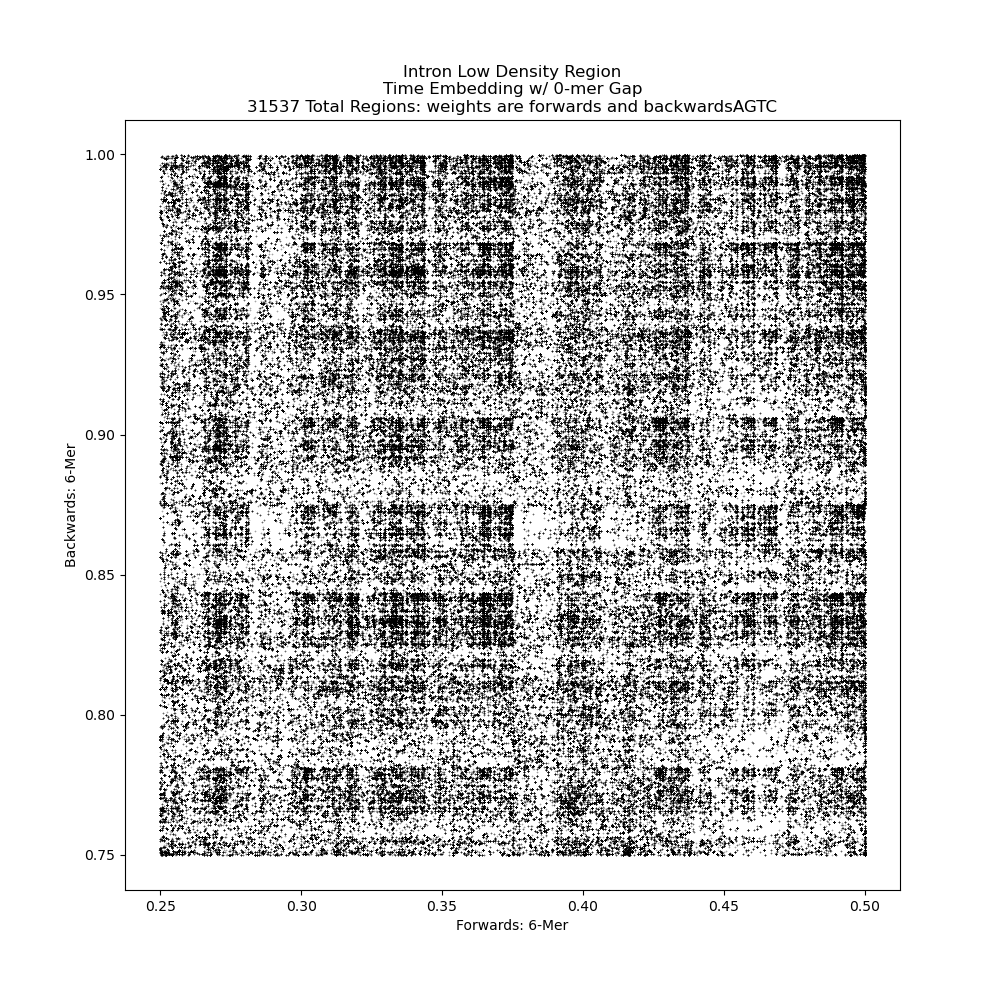
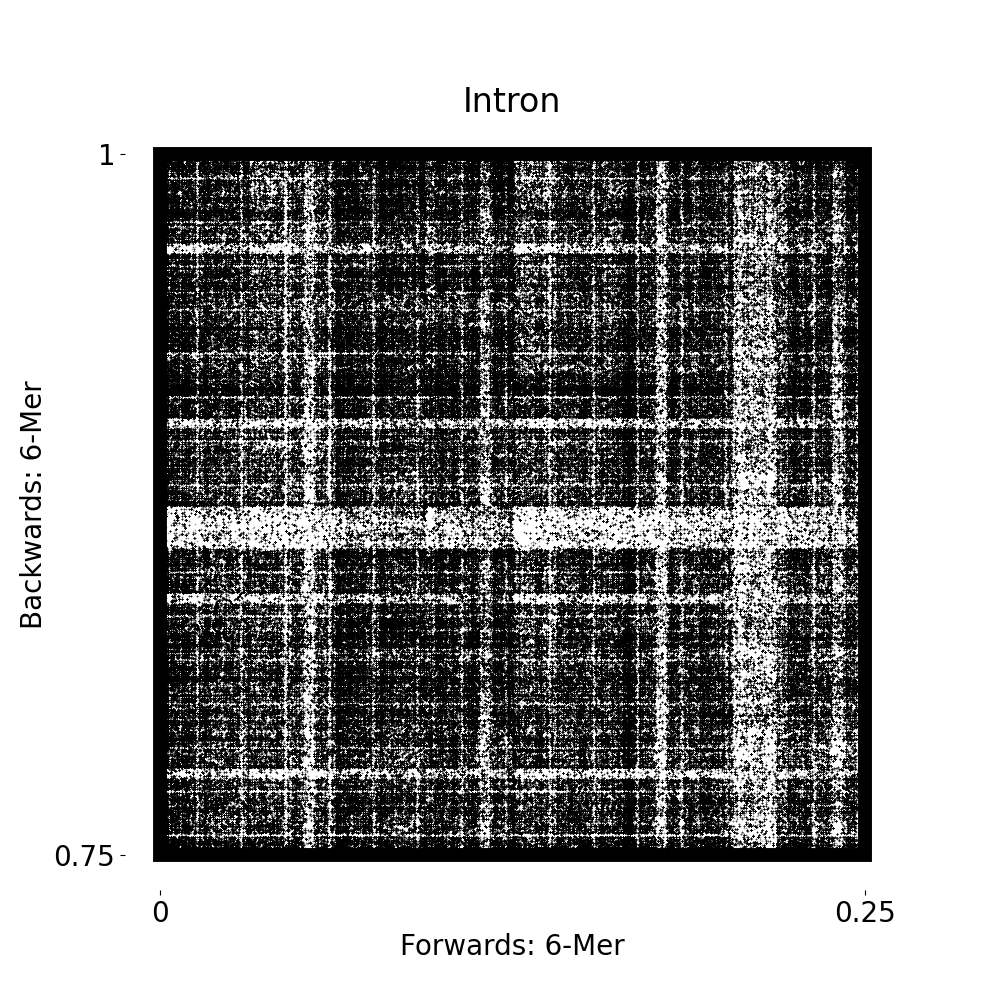
Finished with density plots hopefully

diff --git a/FractalDimension/TimeEmbedding.py b/FractalDimension/TimeEmbedding.py
@@ -18,6 +18,20 @@ import random
 
 def main():
     '''
+    Zoom in on CGA|CTA
+
+    x = CTA
+    y = AGC
+    box1 = A|G
+    box2 = GA|CT
+    box3 = CGA|CTA
+
+    0.25 -> 1/4
+    0.0625 -> 1/8
+    0.015625 -> 1/16
+    0.00390625 -> 1/32
+    0.0009765625 -> 1/64
+
     So traditionally I did the backwards on the x axis and forwards on the y axis, and that's getting me into trouble. The Kneeding transform is best done with it flipped. So I introduced a simple
     transform bool, but... that's getting confusing. The point is: be careful how you use this.
 
@@ -40,7 +54,7 @@ def main():
     # exit()
 
     linux_path = f"/media/ethanspeakman/Elements/"
-    windows_path = f"G:/"
+    windows_path = f"F:/"
 
     data_path = windows_path
 
@@ -49,37 +63,43 @@ def main():
     intron_dict_file = "IntronData_n100000_DS1_kp6_km6"
     x_lim = None
     y_lim = None
-    x_ticks = None
-    y_ticks = None
+    x_ticks = {0.0: 0.0, 1.0: 1.0}
+    y_ticks = {0.0: 0.0, 1.0: 1.0}
     s = 0.01
     bfa = None
     inches = 20
-    exon_png_file = "Exon_textsize_20"
-    intron_png_file = "Intron_textsize_20"
-    # box_1 = [0.25, 0.25, 0.25, 0.25, "red", 4, True, 0.4]
-    # bfa = [box_1]
-    bfa = None
+    exon_png_file = "Exon_box1_x075_100_y000_025_marked"
+    intron_png_file = "Intron_box1_x075_100_y000_025_marked"
+    box_1 = [0.75, 0.00, 0.25, 0.25, "red", 4, True, 0.2]
+    bfa = [box_1]
+    # bfa = None
+    border = 8
+    # bfa = None
     textsize = 40
     n = 100_000
     data_set = 1
-
+    x_title, y_title = "X", "Y"
+    label_coords = [0.5, -0.02, -0.02, 0.5]  # [None, None, -0.1, 0.5] for "Data_zoomed_x0875y00625T"
 
     # # Zoomed in Picture
-    # general_dict_file = "Data_zoomed_x0375_04375_y03125_0375T"
+    # general_dict_file = "Data_zoomed_x075y000T"
     # exon_dict_file = f"Exon{general_dict_file}"
     # intron_dict_file = f"Intron{general_dict_file}"
-    # y_lim = [0.375, 0.4375]
-    # x_lim = [0.3125, 0.375]
-    # x_ticks = {x/100:x/100 for x in range(25, 50 + 1, 1)}
-    # y_ticks = {y/100:y/100 for y in range(25, 50 + 1, 1)}
+    # x_lim = [0.109375, 0.125]
+    # y_lim = [0.875, 0.890625]
+    # y_ticks = {0.0: 0.0, 0.25: 0.25}
+    # x_ticks = {0.75: 0.75, 1.0: 1.0}
+    # border = 8
     # s = 0.5
-    # exon_png_file = "ExonZoomed_x0375_04375_y03125_0375_boxed"
-    # intron_png_file = "IntronZoomed_x0375_04375_y03125_0375_boxed"
-    # inches = 10
-    # textsize = 12
+    # exon_png_file = "ExonZoomed_x075_100_y000_025"
+    # intron_png_file = "IntronZoomed_x075_100_y000_025"
+    # inches = 20
+    # textsize = 40
     # n = 100_000
     # data_set = 1
-    # box_1 = [0.375, 0.3125 + 3*(0.015625), 0.015625, 0.015625, "red", 4, True, 0.4]
+    # x_title, y_title = "X", "Y"
+    # label_coords = [0.5, -0.02, -0.02, 0.5]  # [None, None, -0.1, 0.5] for "Data_zoomed_x0875y00625T"
+    # box_1 = [0.875, 0.109375, 0.015625, 0.015625, "red", 4, True, 0.2]
 
     # box_2 = [0.3125, 0.9375, 0.375 - 0.3125, 1.0 - 0.9375, "blue", 4, True, 0.4]
 
@@ -99,26 +119,30 @@ def main():
                   f"{exon_png_file}",
                   default_title = False,
                 #   transpose=False,
-                  x_lim=x_lim, y_lim=y_lim,
-                #   x_tick_marks=x_ticks, y_tick_marks=y_ticks,
+                #   x_lim=x_lim, y_lim=y_lim,
+                  x_title = x_title, y_title = y_title,
+                  border= border,
+                  x_tick_marks=x_ticks, y_tick_marks=y_ticks,
                   inches = inches,
                   title = "Exon",
                   box_fill_arrow = bfa,
                   textsize = textsize,
-                  dot_size = s)
+                  dot_size = s, label_coords = label_coords)
     
     matplotfigure(cwd / "TE_Images_ForPaper" / "Dict" / f"{intron_dict_file}.pkl",
                   cwd / "TE_Images_ForPaper" / "Intron",
                   f"{intron_png_file}",
                   default_title = False,
                 #   transpose=False,
-                  x_lim=x_lim, y_lim=y_lim,
-                #   x_tick_marks=x_ticks, y_tick_marks=y_ticks,
+                #   x_lim=x_lim, y_lim=y_lim,
+                  x_title = x_title, y_title = y_title,
+                  border= border,
+                  x_tick_marks=x_ticks, y_tick_marks=y_ticks,
                   inches = inches,
                   title = "Intron",
                   box_fill_arrow = bfa,
                   textsize = textsize,
-                  dot_size = s)
+                  dot_size = s, label_coords = label_coords)
 
 
 
@@ -208,6 +232,9 @@ def matplotfigure(frame: dict or pathlib.Path or str,
                   transpose: bool = True,
                   inches: float = 20,
                   textsize: int = None,
+                  border: int = 1,
+                  x_title: str = "Forward", y_title: str = "Backward",
+                  label_coords: list = None,
                   *args, **kwargs):
     '''
     The figure thing is redundent, so I'm going to try a single function to do everything.
@@ -224,6 +251,10 @@ def matplotfigure(frame: dict or pathlib.Path or str,
 
     Transpose is because I originally put the backwards on the x axis and the forwards on the y axis. Instead of going back and swapping those in other places, it's up to the user to know which ones are which. This script is designed such that the backwards is on the x axis and the forwards is on the y: 
     if you want to do it the other way use Transpose = True (which is true by default), else do false. This flips the coordinates for you.
+
+    ax.patch.set_edgecolor('pink') to adjust the actual edge of the box: make this thicker and darker.
+
+    Remove outer frame of the image.
     '''
     if isinstance(file_name, str):
         file_name: pathlib.Path = pathlib.Path(file_name)
@@ -238,16 +269,11 @@ def matplotfigure(frame: dict or pathlib.Path or str,
         with open(frame, "rb") as f:
             frame = pickle.load(f)
 
-    x_title = f"Backwards: {k_m}-Mer"
-    y_title = f"Forwards: {k_p}-Mer"
-
     if transpose:
         for i, (key, points) in enumerate(frame.items()):
             old_x, old_y = np.copy(points[:, 0]), np.copy(points[:, 1])
             frame[key][:, 0] = old_y
             frame[key][:, 1] = old_x
-            y_title = f"Backwards: {k_m}-Mer"
-            x_title = f"Forwards: {k_p}-Mer"
 
     count = list(frame.keys())[len(list(frame.keys())) - 1]
 
@@ -303,6 +329,22 @@ def matplotfigure(frame: dict or pathlib.Path or str,
     if isinstance(y_tick_marks, dict):
         ax.set_yticks(list(y_tick_marks.keys()))
         ax.set_yticklabels(list(y_tick_marks.values()))
+
+    if isinstance(label_coords, list):
+        if isinstance(label_coords[0], float) and isinstance(label_coords[1], float):
+            ax.xaxis.set_label_coords(label_coords[0], label_coords[1])
+        if isinstance(label_coords[2], float) and isinstance(label_coords[3], float):
+            ax.yaxis.set_label_coords(label_coords[2], label_coords[3])
+
+
+    if isinstance(x_tick_marks, dict) and isinstance(y_tick_marks, dict):
+        p = plt.Rectangle([list(x_tick_marks.values())[0], list(y_tick_marks.values())[0]], list(x_tick_marks.values())[1] - list(x_tick_marks.values())[0], list(y_tick_marks.values())[1] - list(y_tick_marks.values())[0], color = "black", linewidth = border, fill = False)  #set_fill = False, 
+        ax.add_patch(p)
+
+    # axes = ax.axes.flat
+
+    for axis in ['top','bottom','left','right']:
+        ax.spines[axis].set_linewidth(0)
 
     if (file_extension in ".png") or (file_extension in ".pdf"):
         plt.savefig(f"{file}")

diff --git a/FractalDimension/GeneSurvey.py b/FractalDimension/GeneSurvey.py
@@ -21,9 +21,9 @@ def main():
 
     This script is meant to scan through all the different regions and take note of what they are composed of.
     '''
-    kmer = 3
+    kmer = 6
     linux_path = f"/media/ethanspeakman/Elements/"
-    windows_path = f"G:/"
+    windows_path = f"F:/"
 
     data_path = windows_path
 
@@ -36,8 +36,8 @@ def main():
     # print(data_1)
     # survey(data_1, output_file_1, kmer, reverse = True)
     # survey(data_2, output_file_2, kmer, reverse = True)
-    recreate(output_file_1, kmer, title = "Dataset 1 Histogram Method Seqeunces", labels = True, output_file = pathlib.Path(cwd / f"GeneSurvey_Dataset1_{kmer}mer.html"))
-    recreate(output_file_2, kmer, title = "Dataset 2 Histogram Method Seqeunces", labels = True, output_file = pathlib.Path(cwd / f"GeneSurvey_Dataset2_{kmer}mer.html"))
+    recreate(output_file_1, kmer, title = "Dataset 1 Histogram Method Seqeunces", labels = True, output_file = pathlib.Path(cwd / f"GeneSurvey_DS1_{kmer}mer.html"), pd_output_file = pathlib.Path(cwd / f"GeneSurvey_DS1_PD_{kmer}mer.html"))
+    recreate(output_file_2, kmer, title = "Dataset 2 Histogram Method Seqeunces", labels = True, output_file = pathlib.Path(cwd / f"GeneSurvey_DS2_{kmer}mer.html"), pd_output_file = pathlib.Path(cwd / f"GeneSurvey_DS2_PD_{kmer}mer.html"))
 
 
 def count_occurences(sequence: str, permutations: list):
@@ -167,7 +167,7 @@ def survey(data: pandas.DataFrame or pathlib.Path, output_file: pathlib.Path, km
     counts_frame.to_pickle(output_file, )
 
 
-def recreate(filepath: pathlib.Path, kmer, output_file: pathlib.Path = None, 
+def recreate(filepath: pathlib.Path, kmer, output_file: pathlib.Path = None, pd_output_file: pathlib.Path = None,
              shaded = False, labels = False, title = None, 
              read_type = "pkl"):
     '''
@@ -181,9 +181,9 @@ def recreate(filepath: pathlib.Path, kmer, output_file: pathlib.Path = None,
     elif read_type in "csv":
         data: pandas.DataFrame = pandas.read_csv(filepath, header = 0)
         x_column = data["Unnamed: 0"]
-    # print(data)
 
     average = 0.25**kmer
+    data["PD"] = (data["E%"] - data["I%"]) / (0.5 * (data["E%"] + data["I%"]+ (2*average)))
 
     fig = go.Figure()
     fig.add_trace(go.Bar(x = x_column, y = data["G%"], name = "Full Seq"))
@@ -215,6 +215,16 @@ def recreate(filepath: pathlib.Path, kmer, output_file: pathlib.Path = None,
         print(f"Output to \t{output_file}")
         fig.write_html(str(output_file))
 
+    fig2 = go.Figure()
+    fig2.add_trace(go.Bar(x = x_column, y = data["PD"]))
+    title = f"|Percent Diff|"
+    fig2.update_layout(title = title)
+    fig2.update_xaxes(showticklabels = labels)
+    fig2.show()
+
+    if pd_output_file is not None:
+        print(f"Output to \t{pd_output_file}")
+        fig2.write_html(str(pd_output_file))
 
 
 if __name__ in "__main__":
